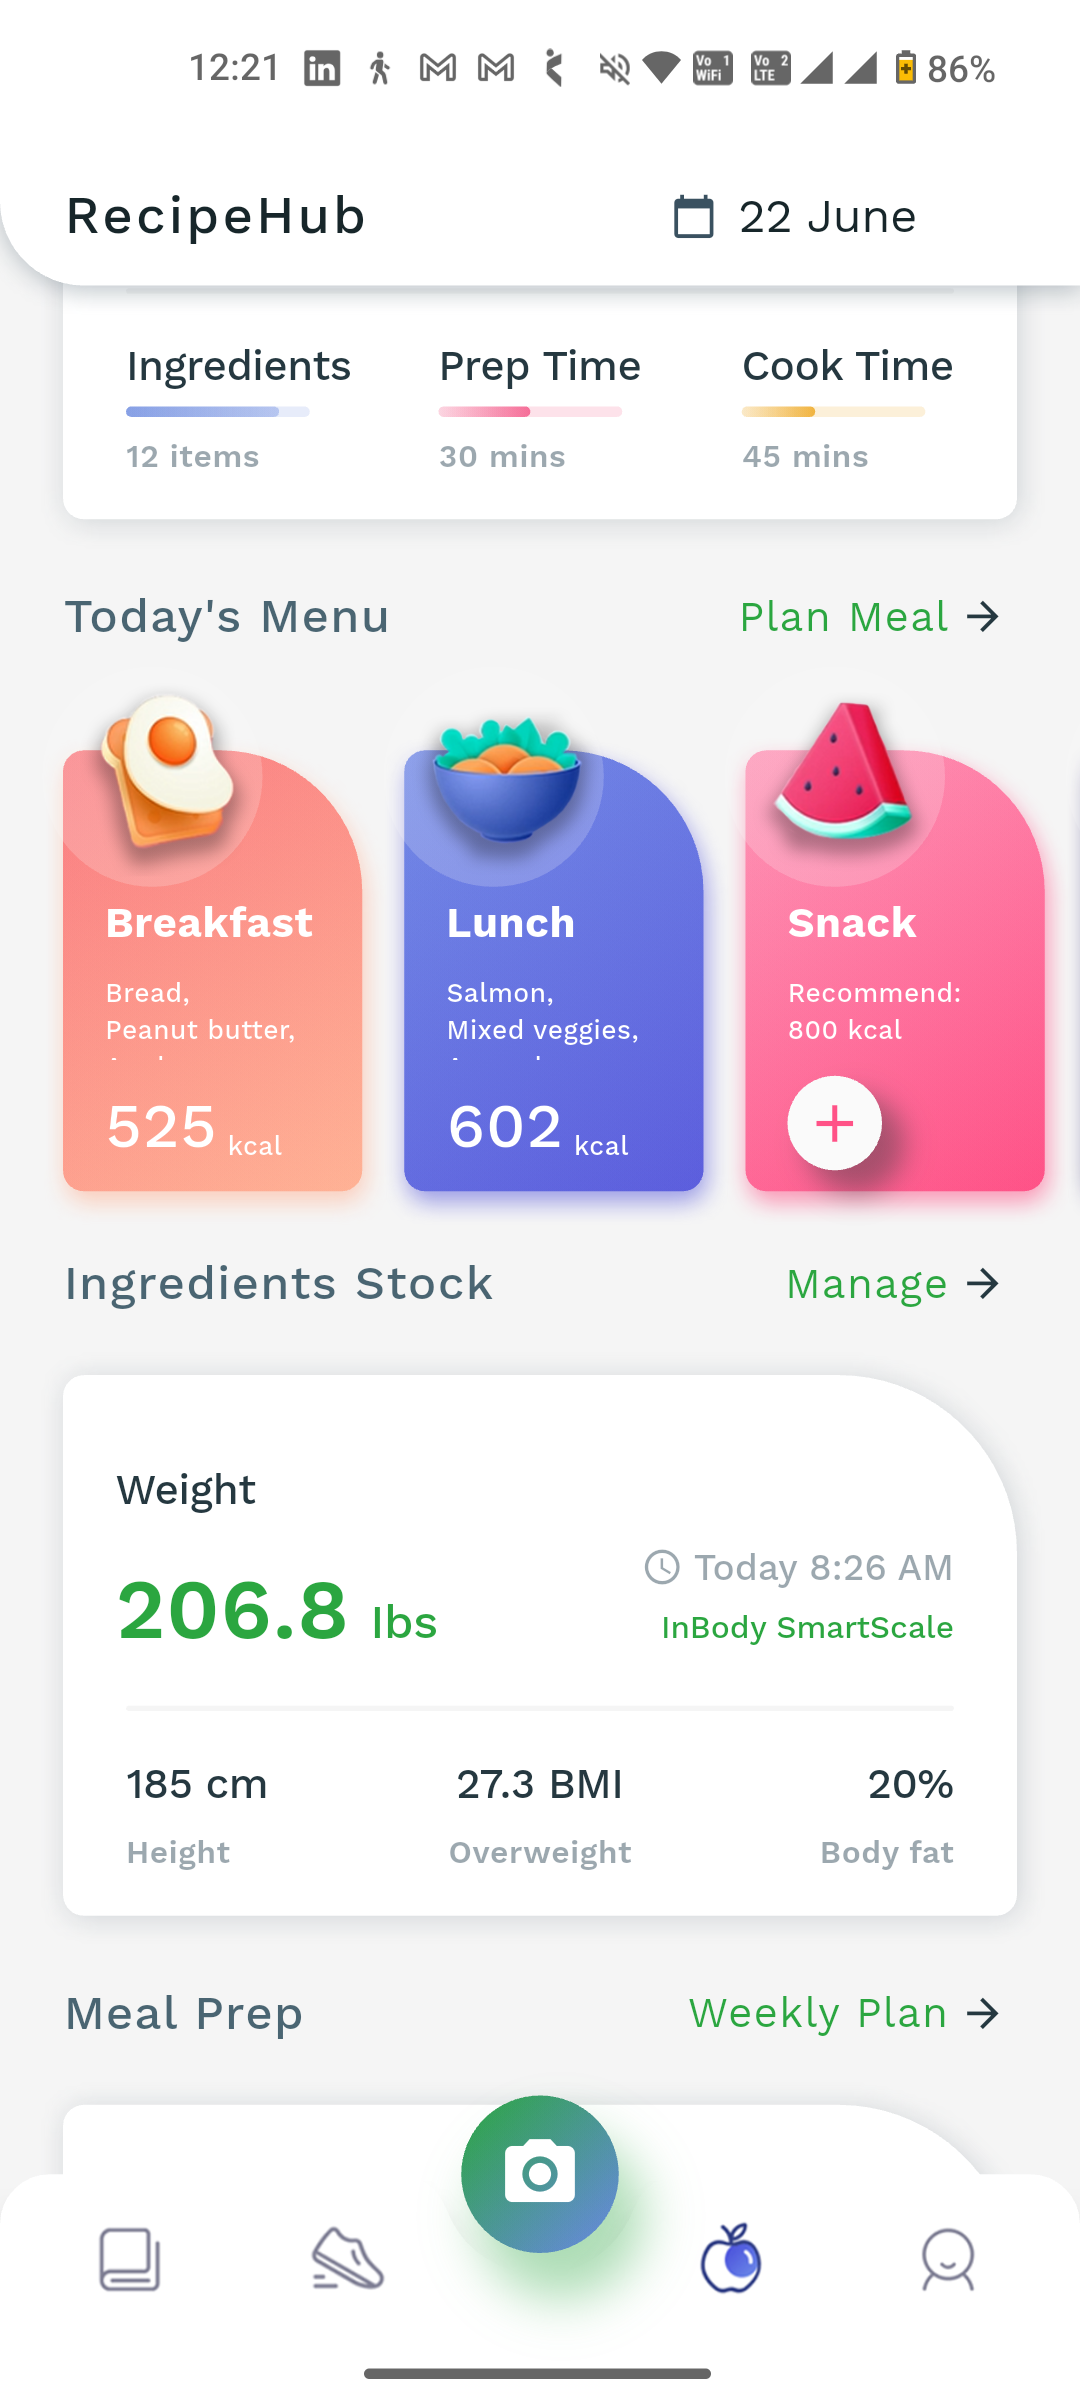
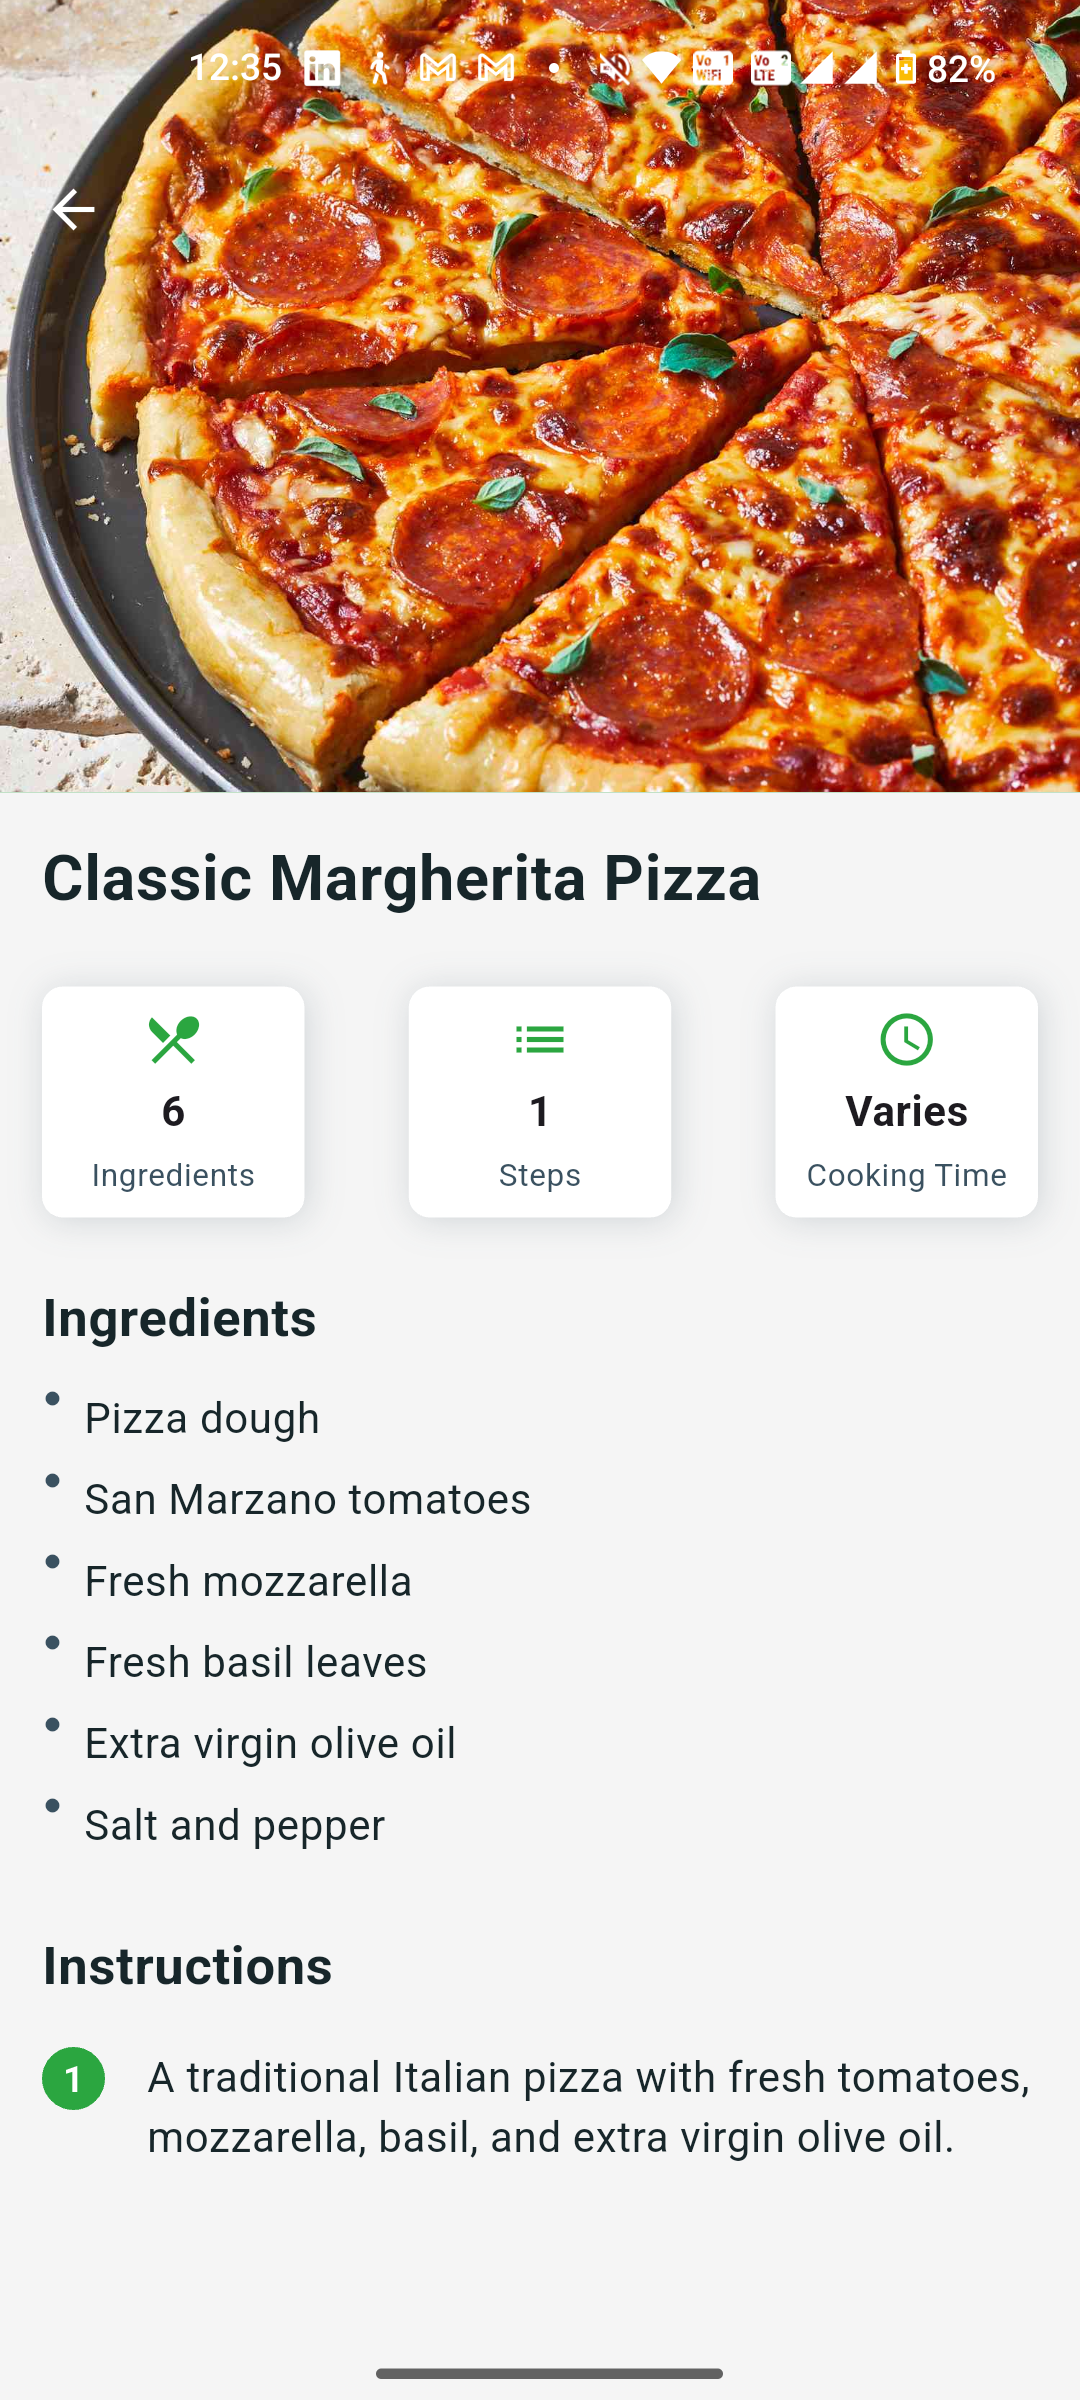
Update screenshots: smaller images with descriptions

diff --git a/README.md b/README.md
@@ -4,8 +4,16 @@
 
 ## 📱 App Demo Screenshots
 
-![RecipeHub Home Screen](assets/images/recipehub_home.png)
-![Recipe Details Screen](assets/images/recipe_details.png)
+<div style="display: flex; gap: 20px; flex-wrap: wrap;">
+  <div style="text-align: center;">
+    <img src="assets/images/recipehub_home.png" alt="RecipeHub Home Screen" width="250">
+    <p><strong>Home Screen</strong><br>View today's menu, track your ingredients stock, and access meal planning features all in one place.</p>
+  </div>
+  <div style="text-align: center;">
+    <img src="assets/images/recipe_details.png" alt="Recipe Details Screen" width="250">
+    <p><strong>Recipe Details</strong><br>Get complete ingredient lists and step-by-step cooking instructions for any dish you capture.</p>
+  </div>
+</div>
 
 ## Overview
 